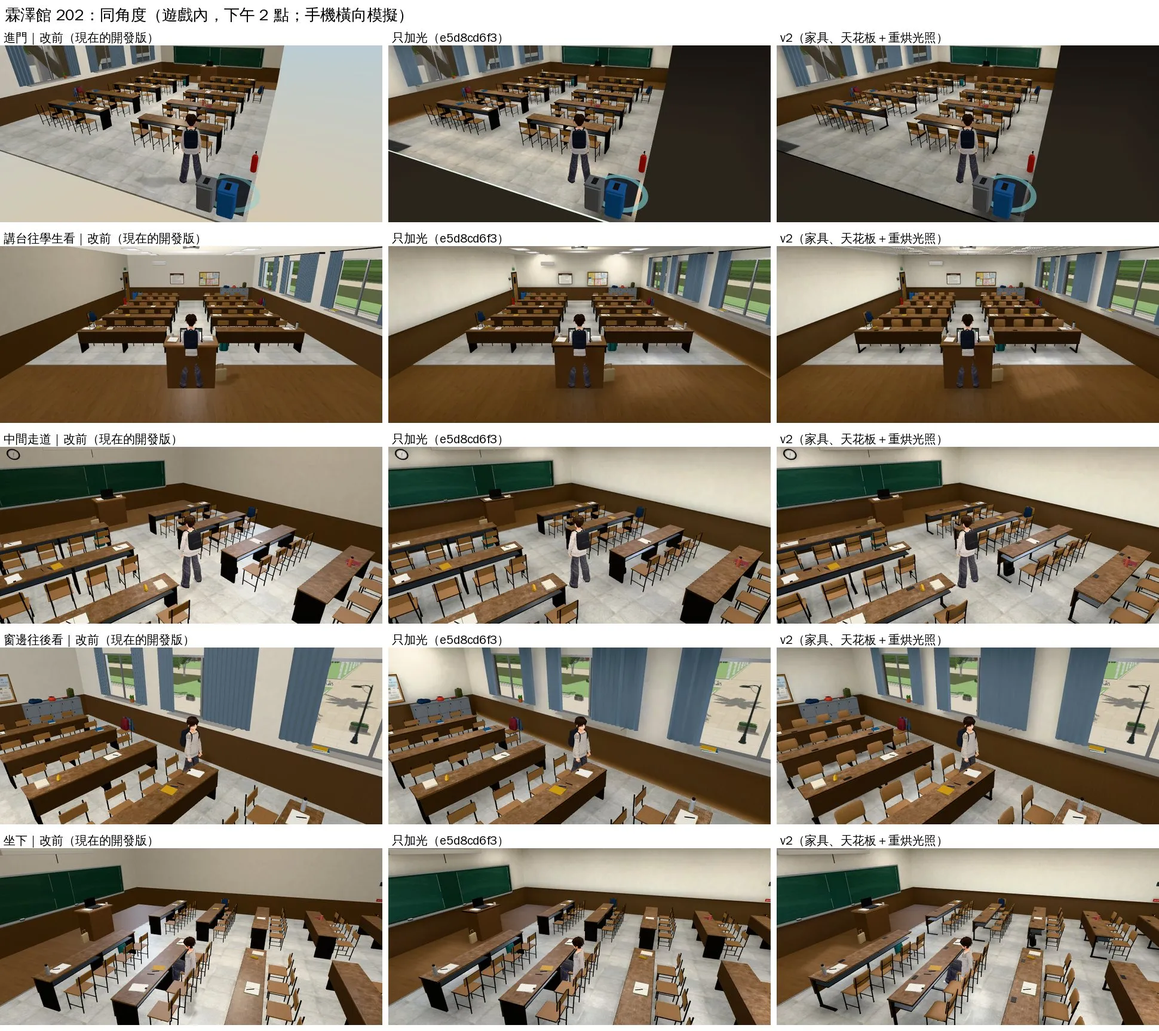
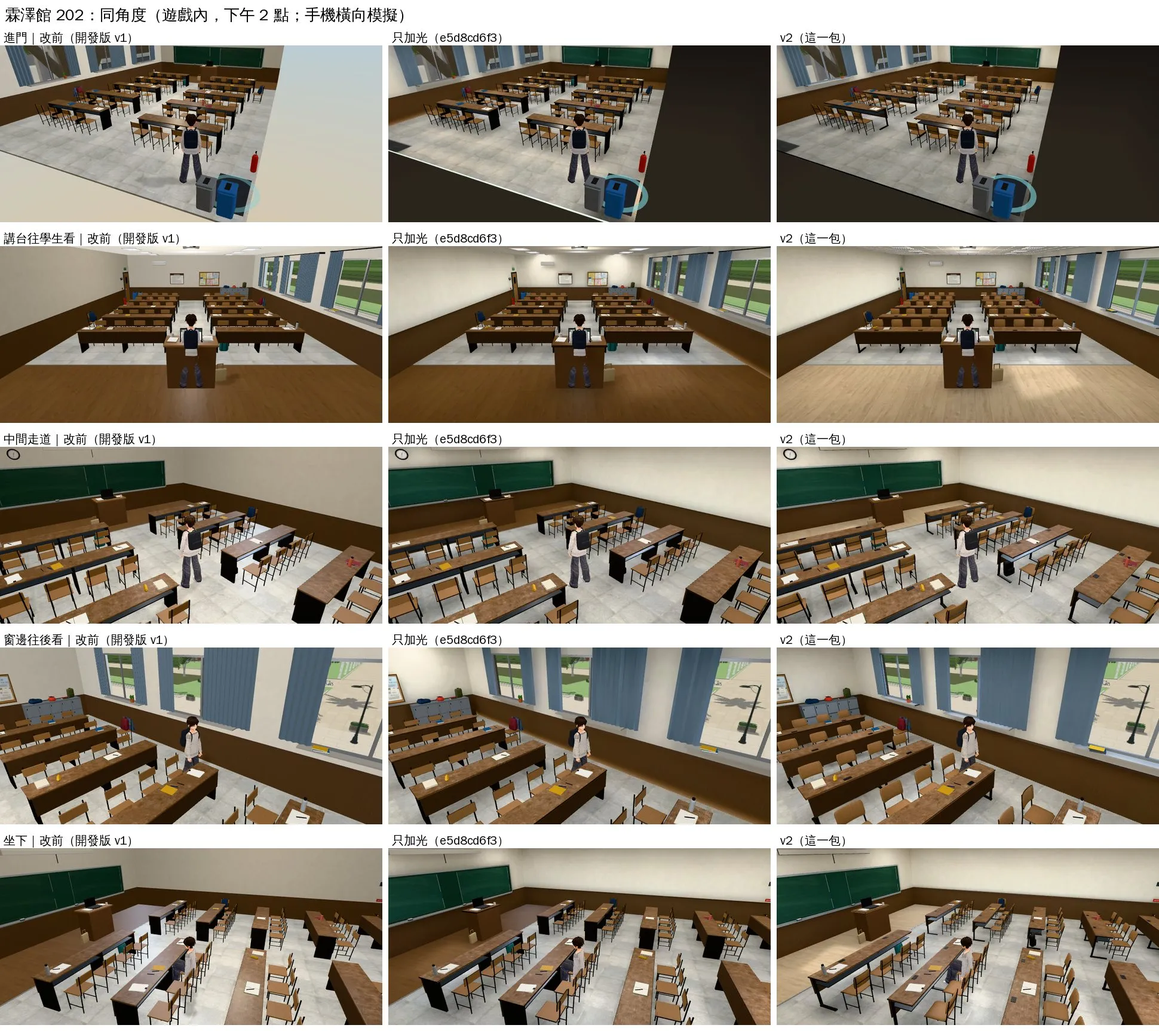
INTERIOR-AAA-REVIEW-1028 第三包交件（READY_FOR_ART_REVIEW）：霖澤館 202 v2（模壓夾板課椅、C 形鋼腳長桌＋電源盒、輕鋼架天花板＋格柵燈具）＋ 201、202、多功能教室光照重烘（LIGHTBAKE-UV-FIX：填滿 6～9% → 28～61%、頂點色零件吃到光照貼圖、門縫不漏光）＋ 201／202 講台木地板改淺色（UA-LAWWW2-1023-03）；只有二進位檔（ba625a84a），沒有新程式；開發分支 923e81d20 上 Node 11 支、reachability 三區 127 點 ALL PASS；同角度三欄、近拍、READ
Claude-Session: https://claude.ai/code/session_015BuNi47yLUt5PviELapMNj

diff --git a/docs/art-rebuild/second_ai/test_shots/interior_202_v2_1028/README.md b/docs/art-rebuild/second_ai/test_shots/interior_202_v2_1028/README.md
@@ -12,6 +12,10 @@
 
 ![202](cmp_202_v2.webp)
 
+近一點看（v2，下午 2 點）：模壓課椅、C 形鋼腳的長桌、桌上的電源盒、天花板的輕鋼架和格柵燈具、淺色的講台地板：
+
+![202 近拍](close_202_v2.webp)
+
 ## 玩家會看到什麼不同
 
 | 檢討報告的問題 | v1 | v2 |
@@ -61,7 +65,7 @@
 
 - 在開發分支最新的 `923e81d20`（已經有 201 v2、上一包的 patch）上，只換這一包的二進位檔：
   - Node（11 支）：`seat_fold_unit`、`rooms_glb_unit`、`x78_rooms_unit`、`door_open_unit`、`room_ceiling_unit`、`windowless_night_unit`、`class_teacher_unit`、`boya_203_unit`、`dorm_205_unit`、`nav_buildings_unit`、`singleside_interiors_unit`：全部 ALL PASS。
-  - 瀏覽器 `tests/reachability_all.py --zones linze_202,wancai_multi,classroom`：（待補）
+  - 瀏覽器 `tests/reachability_all.py --zones linze_202,wancai_multi,classroom`：ALL PASS（3 個區域、127 個互動點：201 49、202 43、多功能教室 35；坐下走得到、劇情自動走路的目的地、出入口；沒有 JS 例外）。
 - `flat_classroom.py` 自己的座位檢查：40 個座位、40 個走近點，problems 0。
 - 配置 JSON 逐欄比對：和原本一樣。
 - `scan_floors.py`：三間沒有深色木地板（202 的 `linze_202_desk` 在 0.75 m，是桌面不是地板）。
@@ -69,7 +73,7 @@
 ## 效能
 
 - 房間模型：三角形 16,311 → 41,791（椅子、桌腳、天花板格子）；GLB 1.3 MB → 2.5 MB；光照貼圖兩張 WebP 約 70 KB。
-- 整個畫面（含人物）：（待補）
+- 整個畫面（含人物，同一個鏡頭）：進門 81 個 draw call／11.9 萬個三角形、講台 92／12.2 萬、走道 88／12.2 萬、窗邊 92／12.3 萬。窗邊那個鏡頭 v1 是 86 個 draw call（上一包量的）。
 - **手機實機的 fps 沒有量**（SwiftShader 的 fps 沒有意義）。
 
 ## 還沒做到、缺點（誠實列）

diff --git a/docs/art-rebuild/second_ai/INTERIOR_AAA_REVIEW_1028.md b/docs/art-rebuild/second_ai/INTERIOR_AAA_REVIEW_1028.md
@@ -192,6 +192,7 @@
   2. 沒有貼圖座標的零件（頂點色的鐵腳、收邊、格柵）光照座標放錯欄位：遊戲裡根本沒吃到光照貼圖，還佔了位置。
   - 改法：間隔固定 4 個像素；細小零件不烘（照舊即時光）；看不到的面不參加排版。202 每公尺 34 個像素、多功能教室 46 個、201 12～17 個。
   - 以後每間烘完都用 `tools/blender/env_second/lightbake/uv_fill.py` 量填滿率和每公尺像素（驗收項目，第 7 節）。
+- **10-28 05:3x 第三包**（202 v2＋三間重烘＋講台淺色地板）：`test_shots/interior_202_v2_1028/README.md`。我做 201 v2 時用了深色木地板（違反使用者 10-23 的永久規則 UA-LAWWW2-1023-03），這包改淺色；以後每間交件前跑 `scan_floors.py`（第 7 節）。
 
 ## 7. 驗收方式改成什麼
 
@@ -205,6 +206,7 @@
    - 一樣的東西有沒有一直複製？
 3. **和參考照片並排**（真實的台大教室、走廊；使用者給過的照片優先）。
 4. **光照貼圖要量**：`uv_fill.py` 的填滿率 50% 以上、主要的面每公尺 12 個像素以上；沒有 uv1 的網格要是故意的（發光面、細小零件）。
+5. **沒有深色木地板**：`tools/blender/env_second/floors/scan_floors.py` 不能有 DARK 的地板（桌面、家具不算）。
 
 ## 8. 出處
 

diff --git a/docs/art-rebuild/second_ai/test_shots/interior_201_v2_1028/README.md b/docs/art-rebuild/second_ai/test_shots/interior_201_v2_1028/README.md
@@ -109,4 +109,14 @@
 - **講台區的木地板改淺色**：v2 第一版是深色（平均 108,84,66），違反使用者 10-23 的永久規則「整個遊戲不要深色木地板」（UA-LAWWW2-1023-03）。我做 v2 時沒對到這條，`scan_floors.py` 量出來才發現。改成 `#cdb594`（和宿舍四人房一樣，量 205,181,148）。
 - **沒有動的**：配置、座位、導航、遊戲程式都沒改。模型只改講台地板的顏色。只換三個二進位檔（GLB、兩張 WebP）。
 
-（同角度對照待補）
+- **同角度**（左：開發分支現在的 v2；右：這一包）。講台地板變淺色；牆、地板的光比較細，桌下、台階邊的暗比較清楚：
+
+![201 重烘白天](cmp_rebake_day.webp)
+
+![201 重烘晚上](cmp_rebake_night.webp)
+
+- **牆上的小零件**（左：v2；中：第一次重烘，門框、公告欄框、開關面板照即時光，變淡；右：這一包，和 v2 一樣深）：
+
+![牆上的零件](rebake_wall_parts.webp)
+
+- **效能**：draw call、三角形和 v2 一樣（同一個鏡頭：進門 146、講台 148、側邊 137；三角形 14.7 萬～16.1 萬，含人物）。光照貼圖兩張 WebP 約 65 KB。
